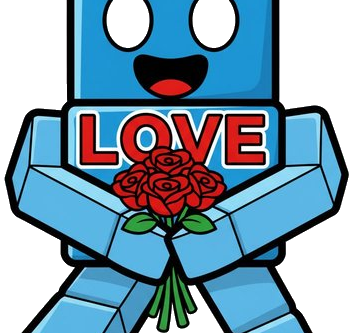
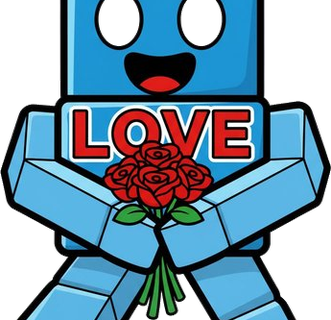
Add 3 Sportini skins + refresh existing character art
New skins (players can now unlock them):
- Stick Stick (Secret, 9.5x mult, unlock 250M)
- No My Pucks (Secret, 12x mult, unlock 1B)
- Hockey Bros (Limited, 22x mult, unlock 10B)

Also:
- Rename Noobini Partyini → Pizzini Partyini to match timur.world
- Romantini Grandini: Limited → Common (matches timur.world rarity)
- Refresh all 19 existing character PNGs — trimmed transparent padding
  so each character fills the card consistently, compressed for faster
  load (avg 90 KB → ~55 KB).

diff --git a/src/App.jsx b/src/App.jsx
@@ -13,7 +13,7 @@ import {
 const CHARACTERS = [
   { id: 1, name: 'Noobini Lovini', file: '01_noobini_lovini.png', bgNum: '01', rarity: 'Common', unlock: 0, emoji: '💖', color: '#ff69b4', mult: 1,
     bg: 'linear-gradient(180deg, #6a11cb 0%, #bc4dff 50%, #6a11cb 100%)' },
-  { id: 2, name: 'Romantini Grandini', file: '02_la_romantic_grande.png', bgNum: '02', rarity: 'Limited', unlock: 500, emoji: '🌹', color: '#e74c3c', mult: 1.5,
+  { id: 2, name: 'Romantini Grandini', file: '02_la_romantic_grande.png', bgNum: '02', rarity: 'Common', unlock: 500, emoji: '🌹', color: '#e74c3c', mult: 1.5,
     bg: 'linear-gradient(180deg, #c0392b 0%, #ff6b6b 40%, #e74c3c 70%, #922b21 100%)' },
   { id: 3, name: 'Lovini Lovini Lovini', file: '03_lovini_lovini_lovini.png', bgNum: '03', rarity: 'Brainrot God', unlock: 2000, emoji: '💕', color: '#ff1493', mult: 2,
     bg: 'linear-gradient(180deg, #ff1493 0%, #ff69b4 35%, #ff1493 65%, #c71585 100%)' },
@@ -36,12 +36,18 @@ const CHARACTERS = [
   { id: 12, name: 'Birthdayini Cardini', file: '12_birthdayini_cardini.png', bgNum: '12', rarity: 'Brainrot God', unlock: 10000000, emoji: '🎈', color: '#ffd700', mult: 6.5,
     bg: 'linear-gradient(180deg, #f9a825 0%, #ffd54f 30%, #ffca28 60%, #f57f17 100%)' },
   // Characters 13, 14, 16, 17 removed — will be re-added with clean art
-  { id: 15, name: 'Noobini Partyini', file: '15_noobini_partyini.png', bgNum: '15', rarity: 'Brainrot God', unlock: 25000000, emoji: '🎊', color: '#2ecc71', mult: 7,
+  { id: 15, name: 'Pizzini Partyini', file: '15_noobini_partyini.png', bgNum: '15', rarity: 'Brainrot God', unlock: 25000000, emoji: '🍕', color: '#2ecc71', mult: 7,
     bg: 'linear-gradient(180deg, #0a5c2a 0%, #1fb85a 30%, #16a04c 60%, #084a22 100%)' },
   { id: 18, name: 'Noo Mio Heartini', file: '18_noo_my_heart.png', bgNum: '18', rarity: 'Rare', unlock: 50000000, emoji: '💔', color: '#8b0000', mult: 8,
     bg: 'linear-gradient(180deg, #1a237e 0%, #5c6bc0 30%, #3f51b5 60%, #0d1453 100%)' },
   { id: 19, name: 'Cupidini Hotspottini', file: '19_cupid_hotspot.png', bgNum: '19', rarity: 'Legendary', unlock: 100000000, emoji: '🔥', color: '#ff4500', mult: 9,
-    bg: 'linear-gradient(180deg, #ff6d00 0%, #ffab00 25%, #ff8f00 50%, #ff6d00 75%, #e65100 100%)' }
+    bg: 'linear-gradient(180deg, #ff6d00 0%, #ffab00 25%, #ff8f00 50%, #ff6d00 75%, #e65100 100%)' },
+  { id: 20, name: 'Stick Stick', file: '20_stick_stick.png', bgNum: '09', rarity: 'Secret', unlock: 250000000, emoji: '🏒', color: '#00d4ff', mult: 9.5,
+    bg: 'linear-gradient(180deg, #0a3d8f 0%, #2196f3 35%, #00d4ff 70%, #0a2e6b 100%)' },
+  { id: 21, name: 'No My Pucks', file: '21_no_my_pucks.png', bgNum: '17', rarity: 'Secret', unlock: 1000000000, emoji: '🥅', color: '#30d158', mult: 12,
+    bg: 'linear-gradient(180deg, #0d4a1f 0%, #30d158 35%, #16a34a 70%, #0a3515 100%)' },
+  { id: 22, name: 'Hockey Bros', file: '22_hockey_bros.png', bgNum: '09', rarity: 'Limited', unlock: 10000000000, emoji: '🏆', color: '#ffe23d', mult: 22,
+    bg: 'linear-gradient(180deg, #7f6000 0%, #ffe23d 35%, #ffc107 70%, #5d4500 100%)' }
 ];
 
 const AUTO_CLICKERS = [
